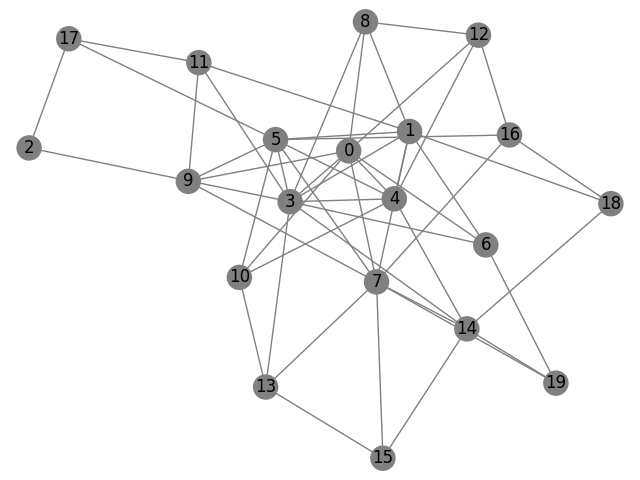
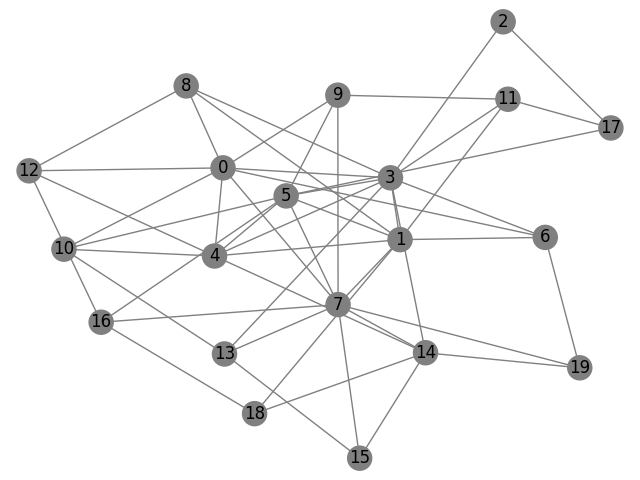
better loading and saving of graph data

diff --git a/src/create_random_graphs.py b/src/create_random_graphs.py
@@ -1,10 +1,22 @@
 import networkx as nx
 import numpy as np
+from pathlib import Path
 
 
 def create_barabasi_albert_graph(n, m, seed=22, root_dir="data/simulated"):
+
+    #
     file_path = f = "./{}/barabasi_albert_{}_{}_{}.csv".format(root_dir, n, m, seed)
-    graph = nx.barabasi_albert_graph(n=n, m=m, seed=seed)
-    np.savetxt(fname=file_path, X=nx.to_numpy_matrix(graph).astype(int), fmt='%i', delimiter=",")
+
+    #
+    if Path(file_path).is_file():
+        data = np.loadtxt(fname=file_path, dtype=int, delimiter=",")
+        graph = nx.from_numpy_matrix(A=data)
+        print(graph)
+    else:
+        graph = nx.barabasi_albert_graph(n=n, m=m, seed=seed)
+        np.savetxt(fname=file_path, X=nx.to_numpy_matrix(graph).astype(int), fmt='%i', delimiter=",")\
+
+    #
     return graph
 

diff --git a/main.py b/main.py
@@ -5,9 +5,9 @@ import networkx as nx
 # Press the green button in the gutter to run the script.
 if __name__ == '__main__':
     graph = create_barabasi_albert_graph(n=20, m=3, seed=1)
-
-    pos = nx.spring_layout(G=graph, iterations=5000, seed=24)
-    # pos = nx.kamada_kawai_layout(G=G)
+    print("here")
+    #pos = nx.spring_layout(G=graph, iterations=5000, seed=24)
+    pos = nx.kamada_kawai_layout(G=graph)
 
     # Color Map for both edges and vertices
     node_color_map = []
